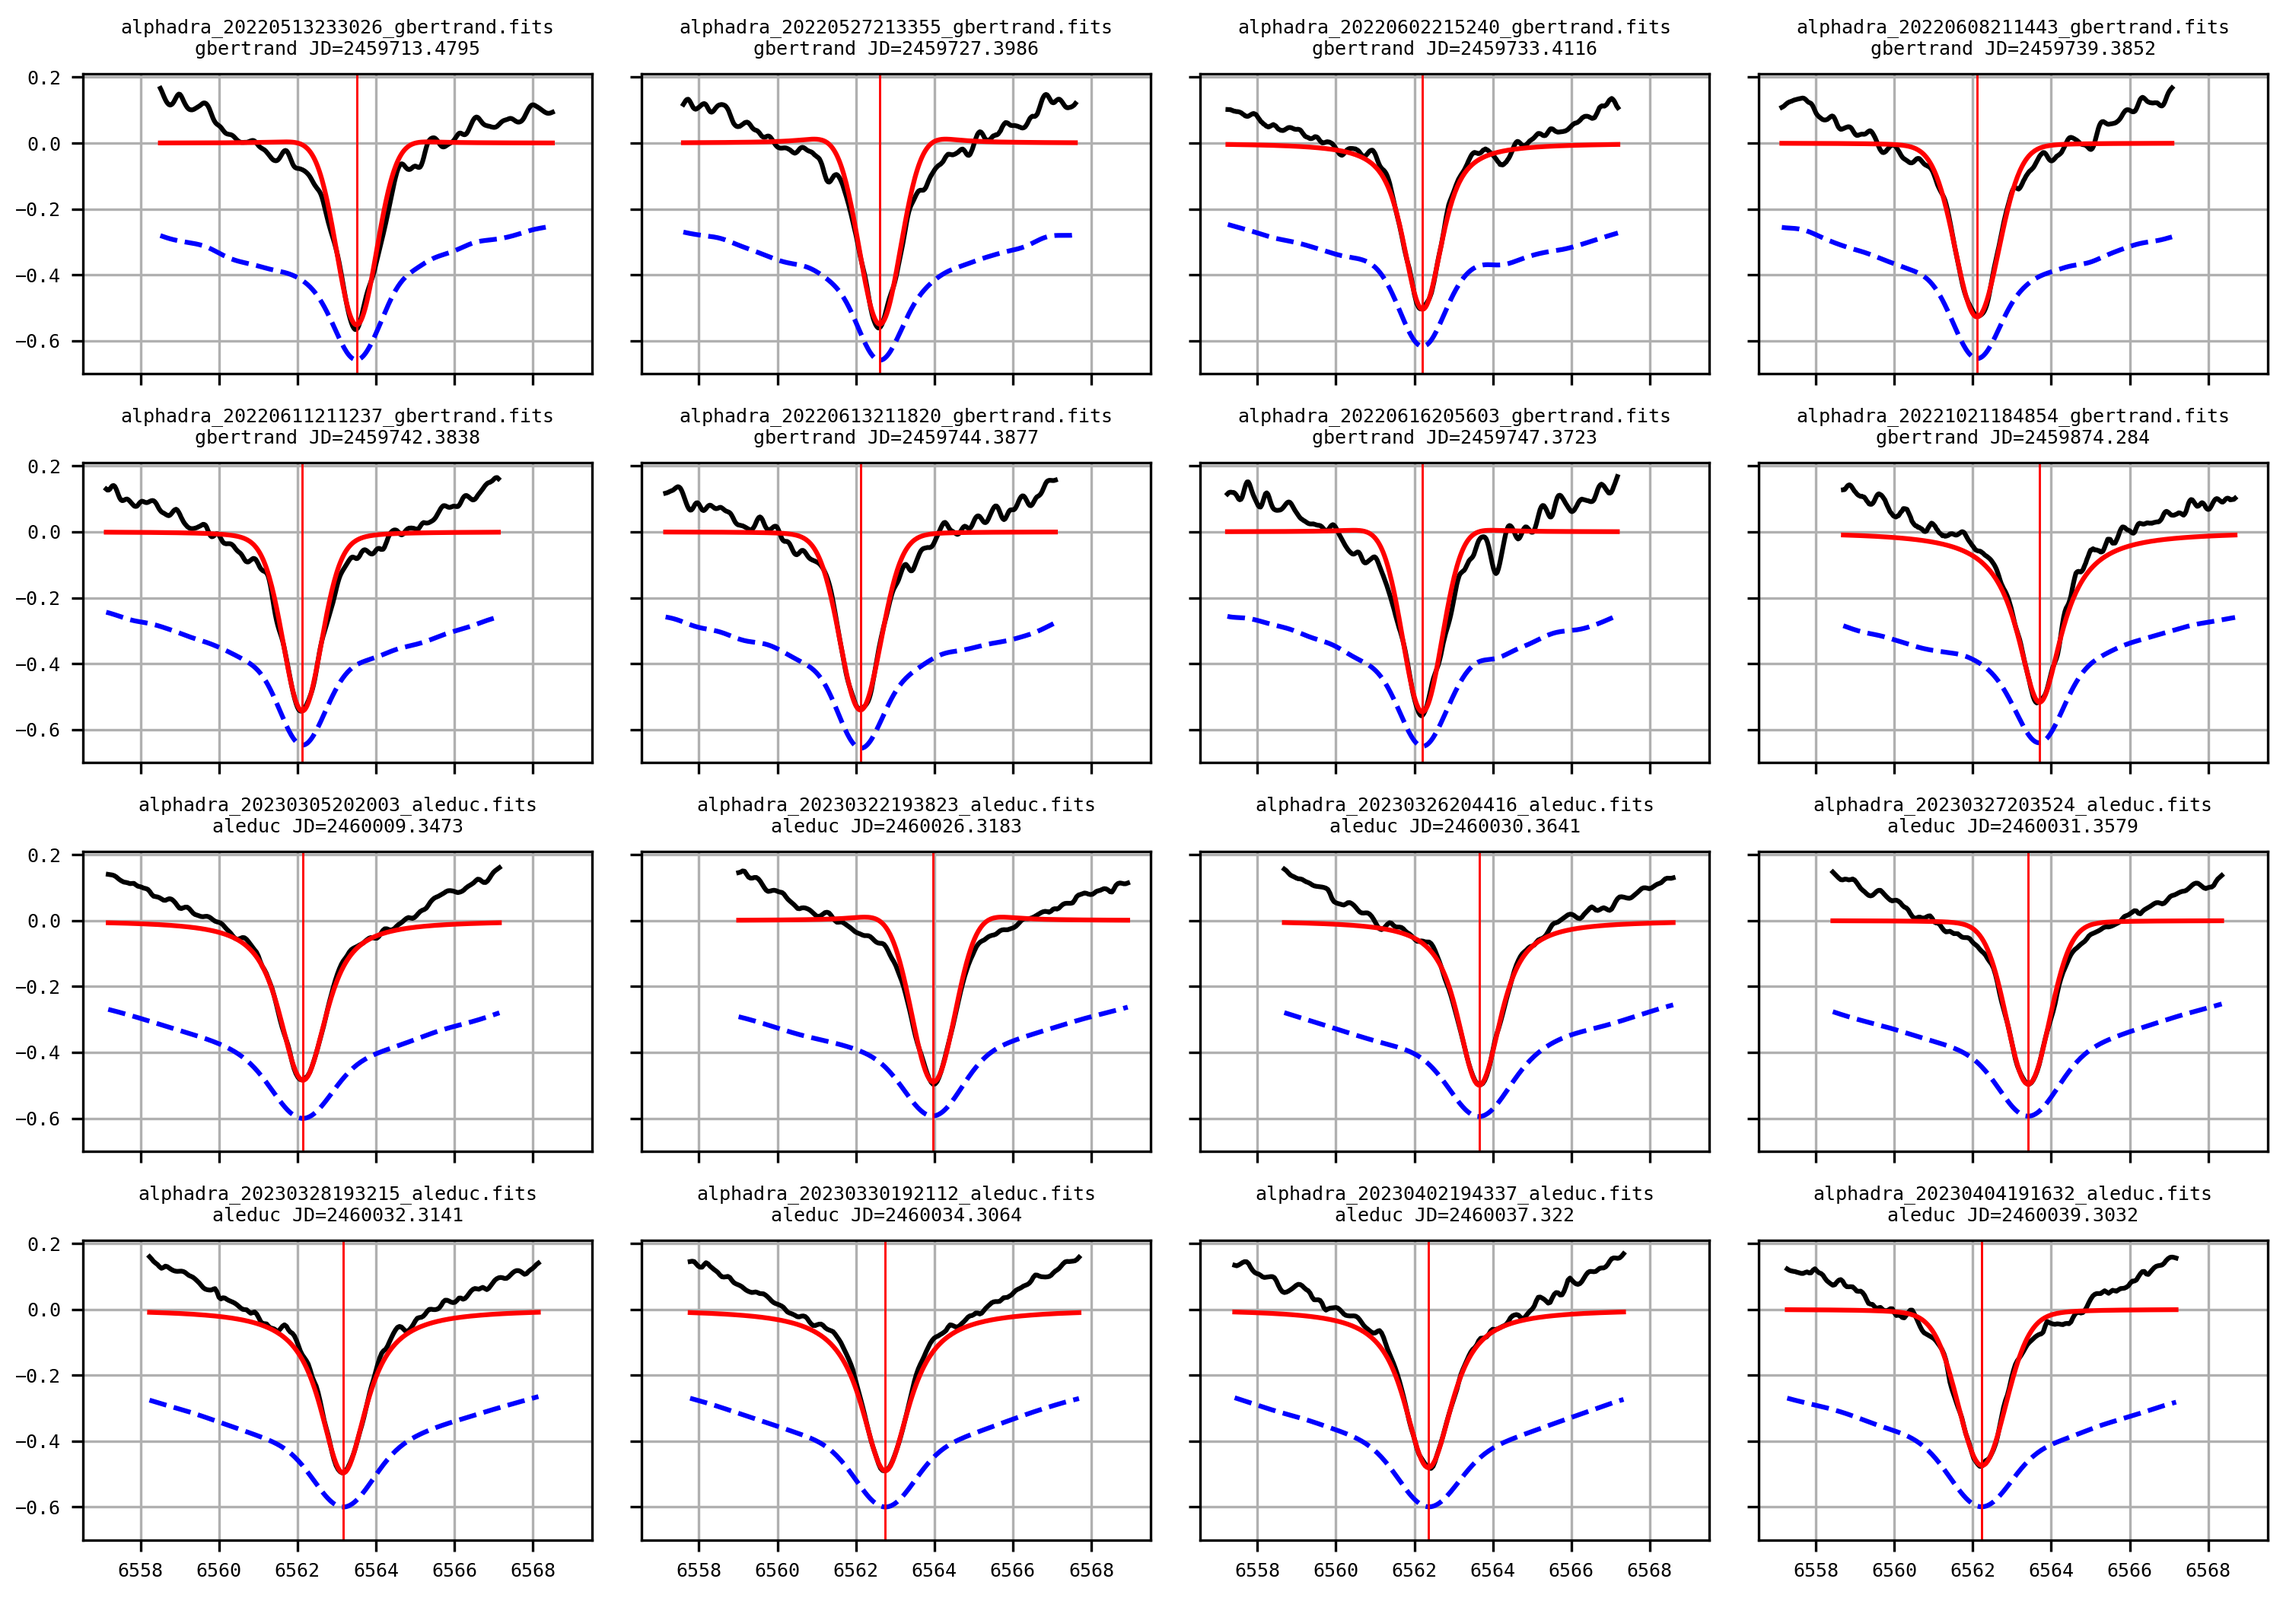
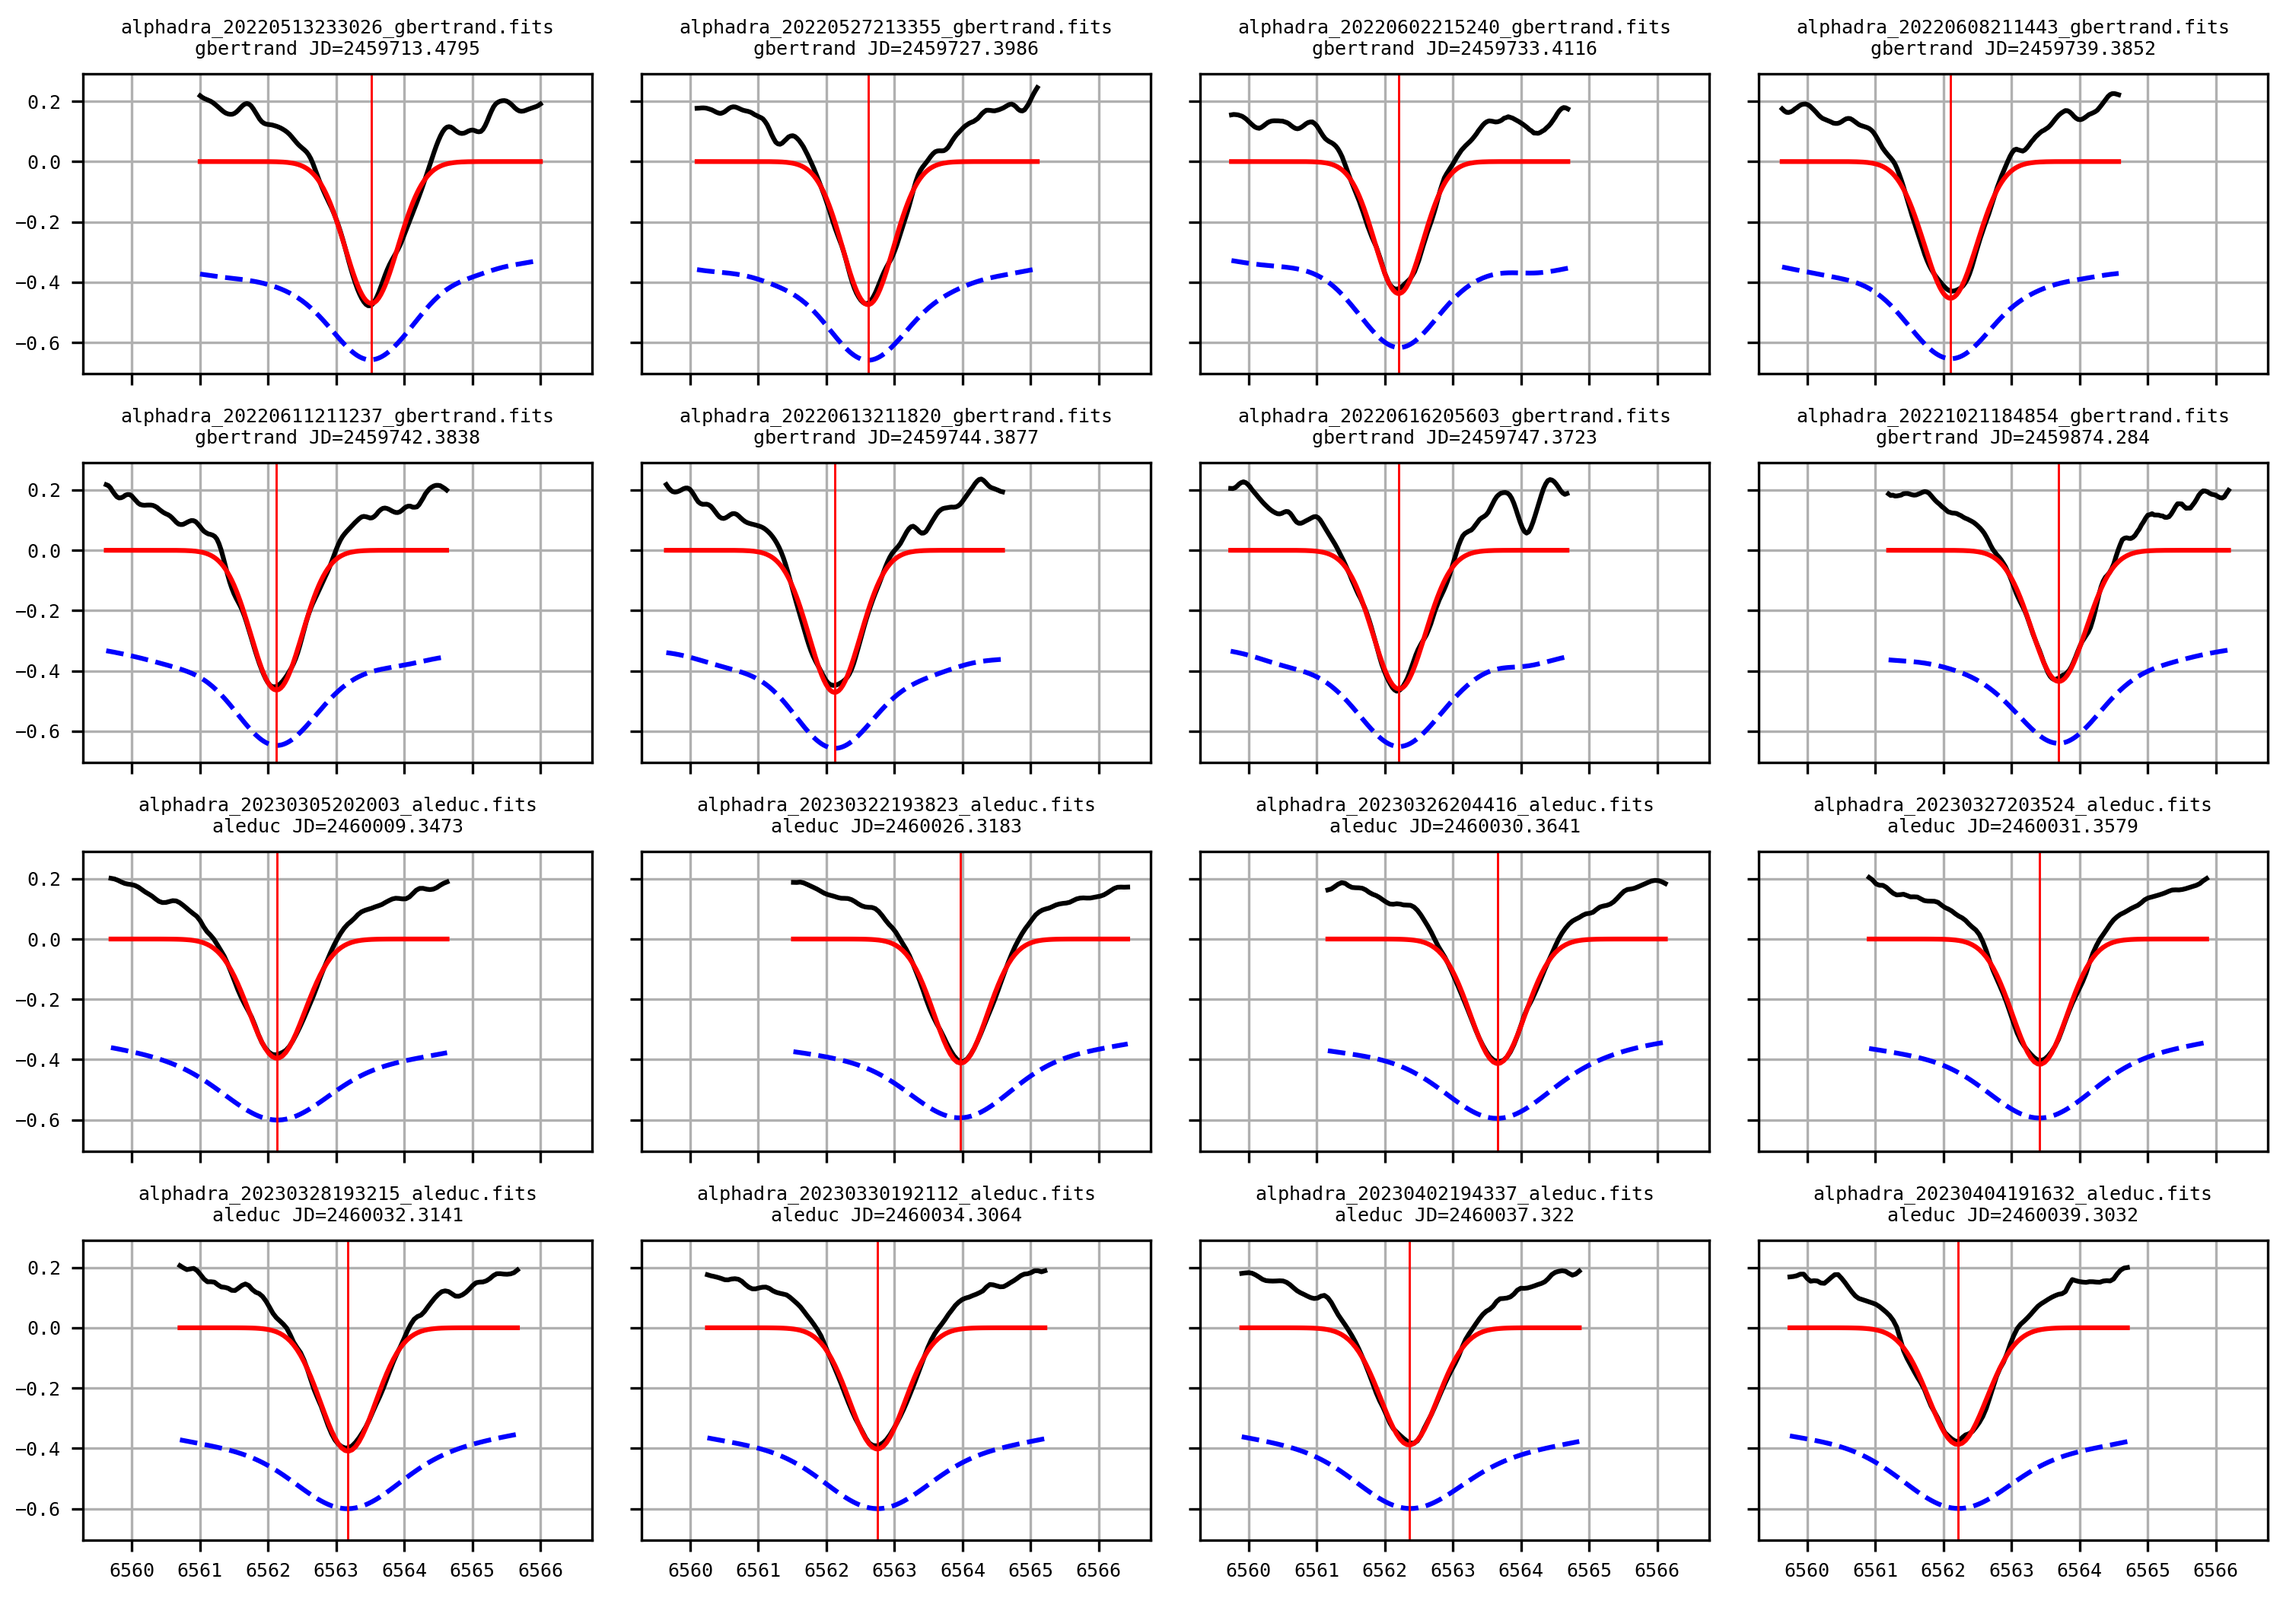
improvement on findCenterOfLine

diff --git a/spectroscopicbinarysystem/__init__.py b/spectroscopicbinarysystem/__init__.py
@@ -111,18 +111,18 @@ class SBSpectrum1D(Spectrum1D):
         calibration_error = float(
             self._header['CRDER1']) if 'CRDER1' in self._header else 0
         calibration_error = abs(
-            c * (calibration_error / self._conf["LAMBDA_REF"]))
+            c * (calibration_error / self._conf["LAMBDA_REF"])).value
 
         center_error = 0
+        if self._snr and self._line_fit_fwhm:
+            fwhm = self._line_fit_fwhm
+            cdelt1 = self._header['CDELT1']
+            fwhm_rv = c * fwhm / self._center_of_line
+            center_error = (.55 *
+                            (fwhm_rv/(.68 * self._snr *
+                                      np.sqrt(fwhm/cdelt1)))).value
 
-        fwhm = self._line_fit_fwhm
-        cdelt1 = self._header['CDELT1']
-        fwhm_rv = c * fwhm / self._center_of_line
-        center_error = .55 * \
-            (fwhm_rv/(.68 * self._snr *
-                      np.sqrt(fwhm/cdelt1)))
-
-        return calibration_error.value + center_error.value
+        return calibration_error + center_error
 
     def getSNR(self):
         return self._snr
@@ -245,11 +245,9 @@ class SBSpectrum1D(Spectrum1D):
 
     def findCenterOfLine(self):
         """
-        Find the center of the line in a spectrum using a fit (models available : Gaussian1D, Lorentz1D, Voigt1D)
+        Find the center of the line in a spectrum using a fit (models available : Gaussian1D, Lorentz1D)
         :return: None
         """
-        w1 = float(self._conf['LINE_FIT_WINDOW_WIDTH']) / 2
-        w2 = float(self._conf['LINE_FIT_CONT_NORM_EXCLUDE_WIDTH']) / 2
         fwhm = float(self._conf['LINE_FIT_FWHM'])
         gauss_smooth_std = float(self._conf['LINE_FIT_GAUSS_SMOOTH_STD'])
 
@@ -261,14 +259,15 @@ class SBSpectrum1D(Spectrum1D):
         ipeak = spec1_gsmooth.flux[50:-50].argmin()
         xpeak = spec1_gsmooth.spectral_axis[50:-50][ipeak].to(u.AA)
 
-        sr_w1 = SpectralRegion(xpeak - (w1 * u.AA), xpeak + (w1 * u.AA))
-        sr_w2 = SpectralRegion(xpeak - (w2 * u.AA), xpeak + (w2 * u.AA))
+        sr_w1 = SpectralRegion(xpeak - (fwhm * 2.5 * u.AA),
+                               xpeak + (fwhm * 2.5 * u.AA))
+        sr_w2 = SpectralRegion(xpeak - (fwhm * u.AA), xpeak + (fwhm * u.AA))
 
         spec1d_line = extract_region(Spectrum1D(
             flux=self.flux, wcs=self.wcs), sr_w1)
 
         # continuum normalization of the extracted spectral region
-        s_fit = fit_generic_continuum(spec1d_line, exclude_regions=[sr_w2])
+        s_fit = fit_generic_continuum(spec1d_line)
         spec1d_line = spec1d_line / s_fit(spec1d_line.spectral_axis)
         spec1d_line -= 1
 
@@ -277,9 +276,6 @@ class SBSpectrum1D(Spectrum1D):
             case 'gaussian':
                 g_init = models.Gaussian1D(
                     mean=xpeak, amplitude=spec1d_line.flux.argmin())
-            case 'voigt':
-                g_init = models.Voigt1D(
-                    x_0=xpeak, amplitude_L=spec1d_line.flux.argmin())
             case 'lorentz':
                 g_init = models.Lorentz1D(x_0=xpeak, fwhm=fwhm)
 
@@ -293,9 +289,6 @@ class SBSpectrum1D(Spectrum1D):
             case 'lorentz':
                 center = g_fit.x_0
                 fwhm = g_fit.fwhm
-            case _:
-                center = g_fit.x_0
-                fwhm = g_fit.fwhm_L
 
         self._debug_line_fitting = (spec1d_line, y_fit, extract_region(Spectrum1D(
             flux=spec1_gsmooth.flux, wcs=self.wcs), sr_w1))

diff --git a/README.md b/README.md
@@ -67,13 +67,12 @@ sbs = SpectroscopicBinarySystem(
     period_guess=51,
     conf={
         "LAMBDA_REF": 6562.82,
-        "LINE_FIT_MODEL": "voigt",
-        "LINE_FIT_WINDOW_WIDTH": 10,
-        "LINE_FIT_CONT_NORM_EXCLUDE_WIDTH": 1,
+        "LINE_FIT_MODEL": "gaussian",
+        "LINE_FIT_FWHM": 1.0,
         "RV_CORR_TYPE": "barycentric",
         "SB_TYPE": 1
     },
-    verbose=True
+    verbose=False,
     debug=False)
 
 # plot result with matplotlib and save the results
